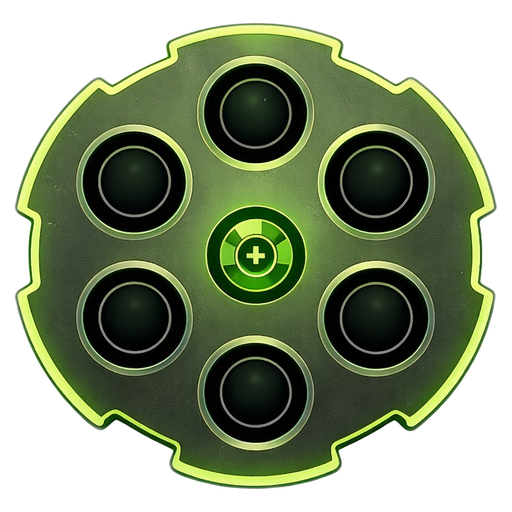
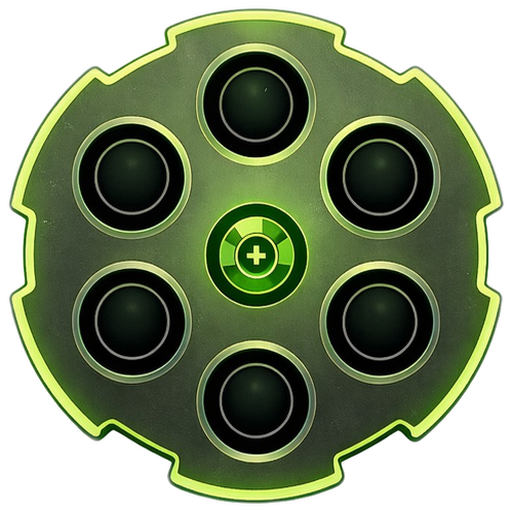
fix: 실린더 PNG 원형 보정 + 챔버 좌표 수학적 재계산

Changed region(s): [[0.0, 0.0, 1.0, 1.0], [0.5938, 0.5, 0.875, 0.75], [0.375, 0.375, 0.625, 0.625]]

diff --git a/frontend/components/GameBoard.tsx b/frontend/components/GameBoard.tsx
@@ -431,15 +431,15 @@ export default function GameBoard() {
   const isGameOver = gameState.status === 'won' || gameState.status === 'lost';
   const triggerReady = isActive && cylinderPhase === 'ready' && !isLoading && !isReloading;
 
-  // Chamber positions for PNG overlay (manually calibrated for precise alignment)
-  const chamberOverlayPositions = [
-    { left: 50, top: 22.4 },        // 0° Top
-    { left: 73.5039, top: 35.485 }, // 60° Top-right
-    { left: 73.5039, top: 62.535 }, // 120° Bottom-right
-    { left: 50, top: 76.51 },       // 180° Bottom
-    { left: 26.0961, top: 62.335 }, // 240° Bottom-left
-    { left: 26.1961, top: 35.485 }, // 300° Top-left
-  ];
+  // Chamber positions for PNG overlay (calculated for circular cylinder)
+  const CHAMBER_PCT = 27; // distance from center as % of container
+  const chamberOverlayPositions = [0, 60, 120, 180, 240, 300].map(deg => {
+    const rad = (deg - 90) * (Math.PI / 180);
+    return {
+      left: 50 + CHAMBER_PCT * Math.cos(rad),
+      top: 50 + CHAMBER_PCT * Math.sin(rad),
+    };
+  });
 
   const getInstruction = () => {
     if (!isActive) return null;
